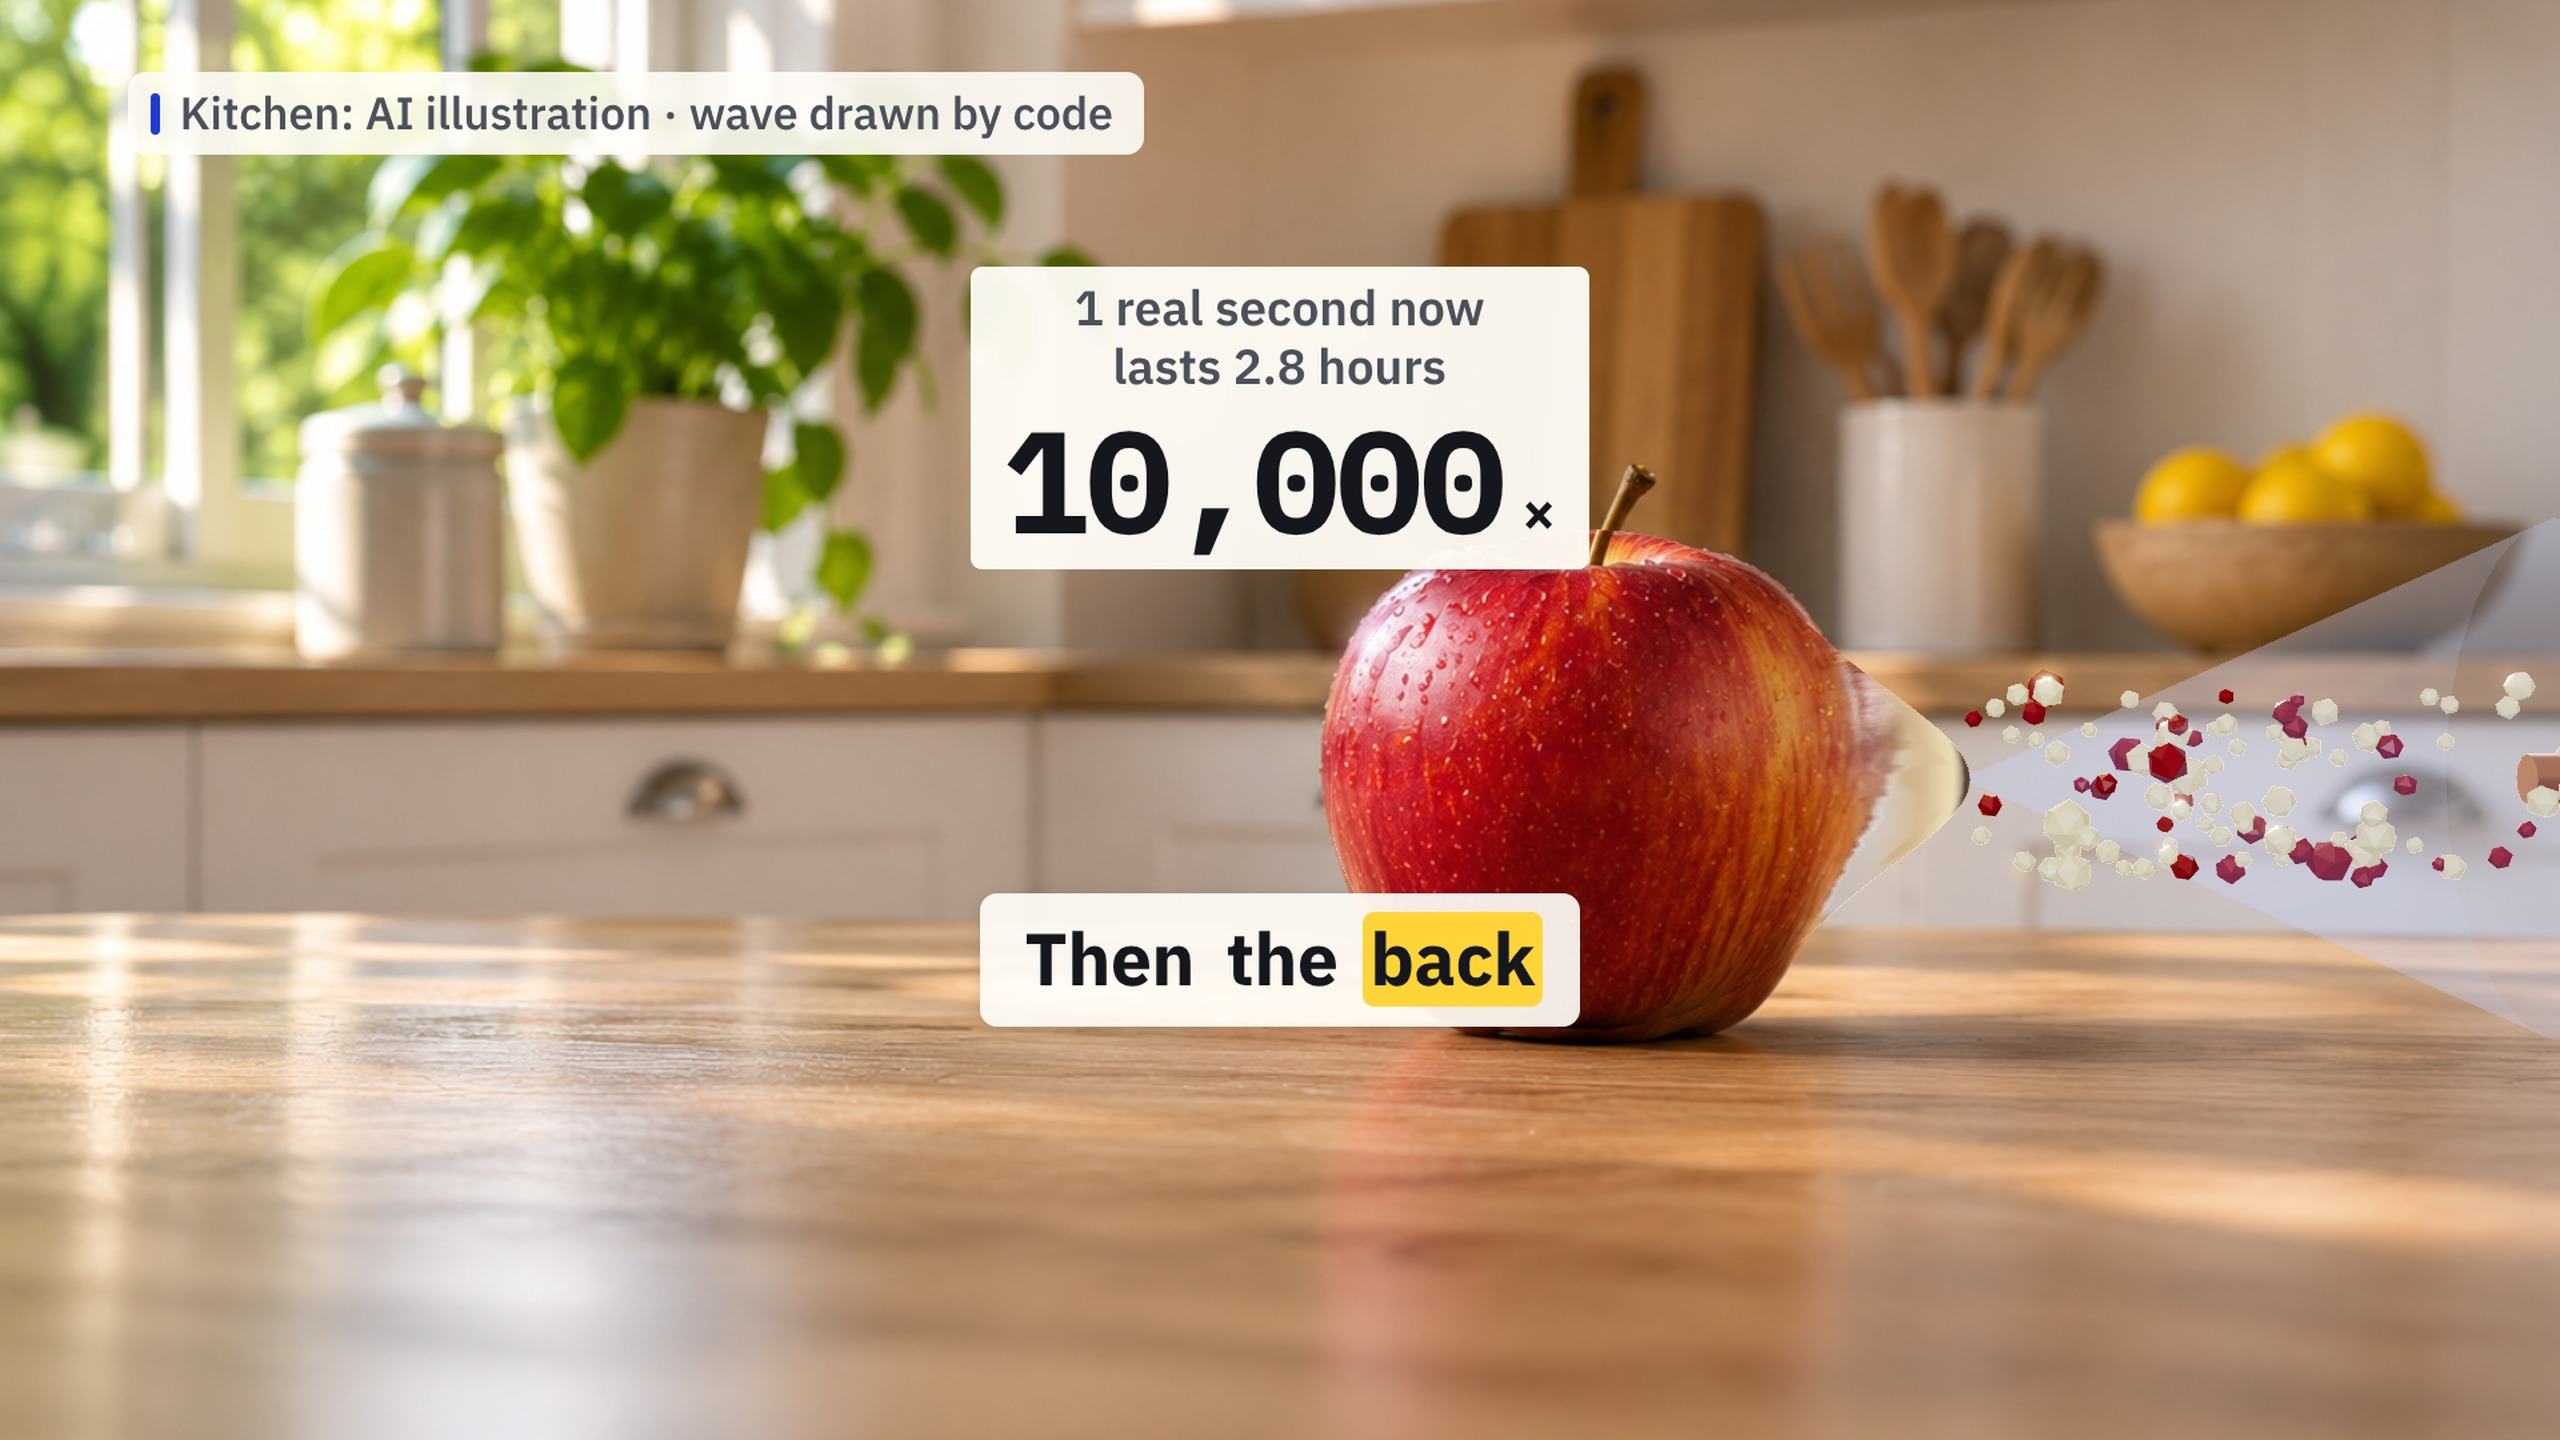
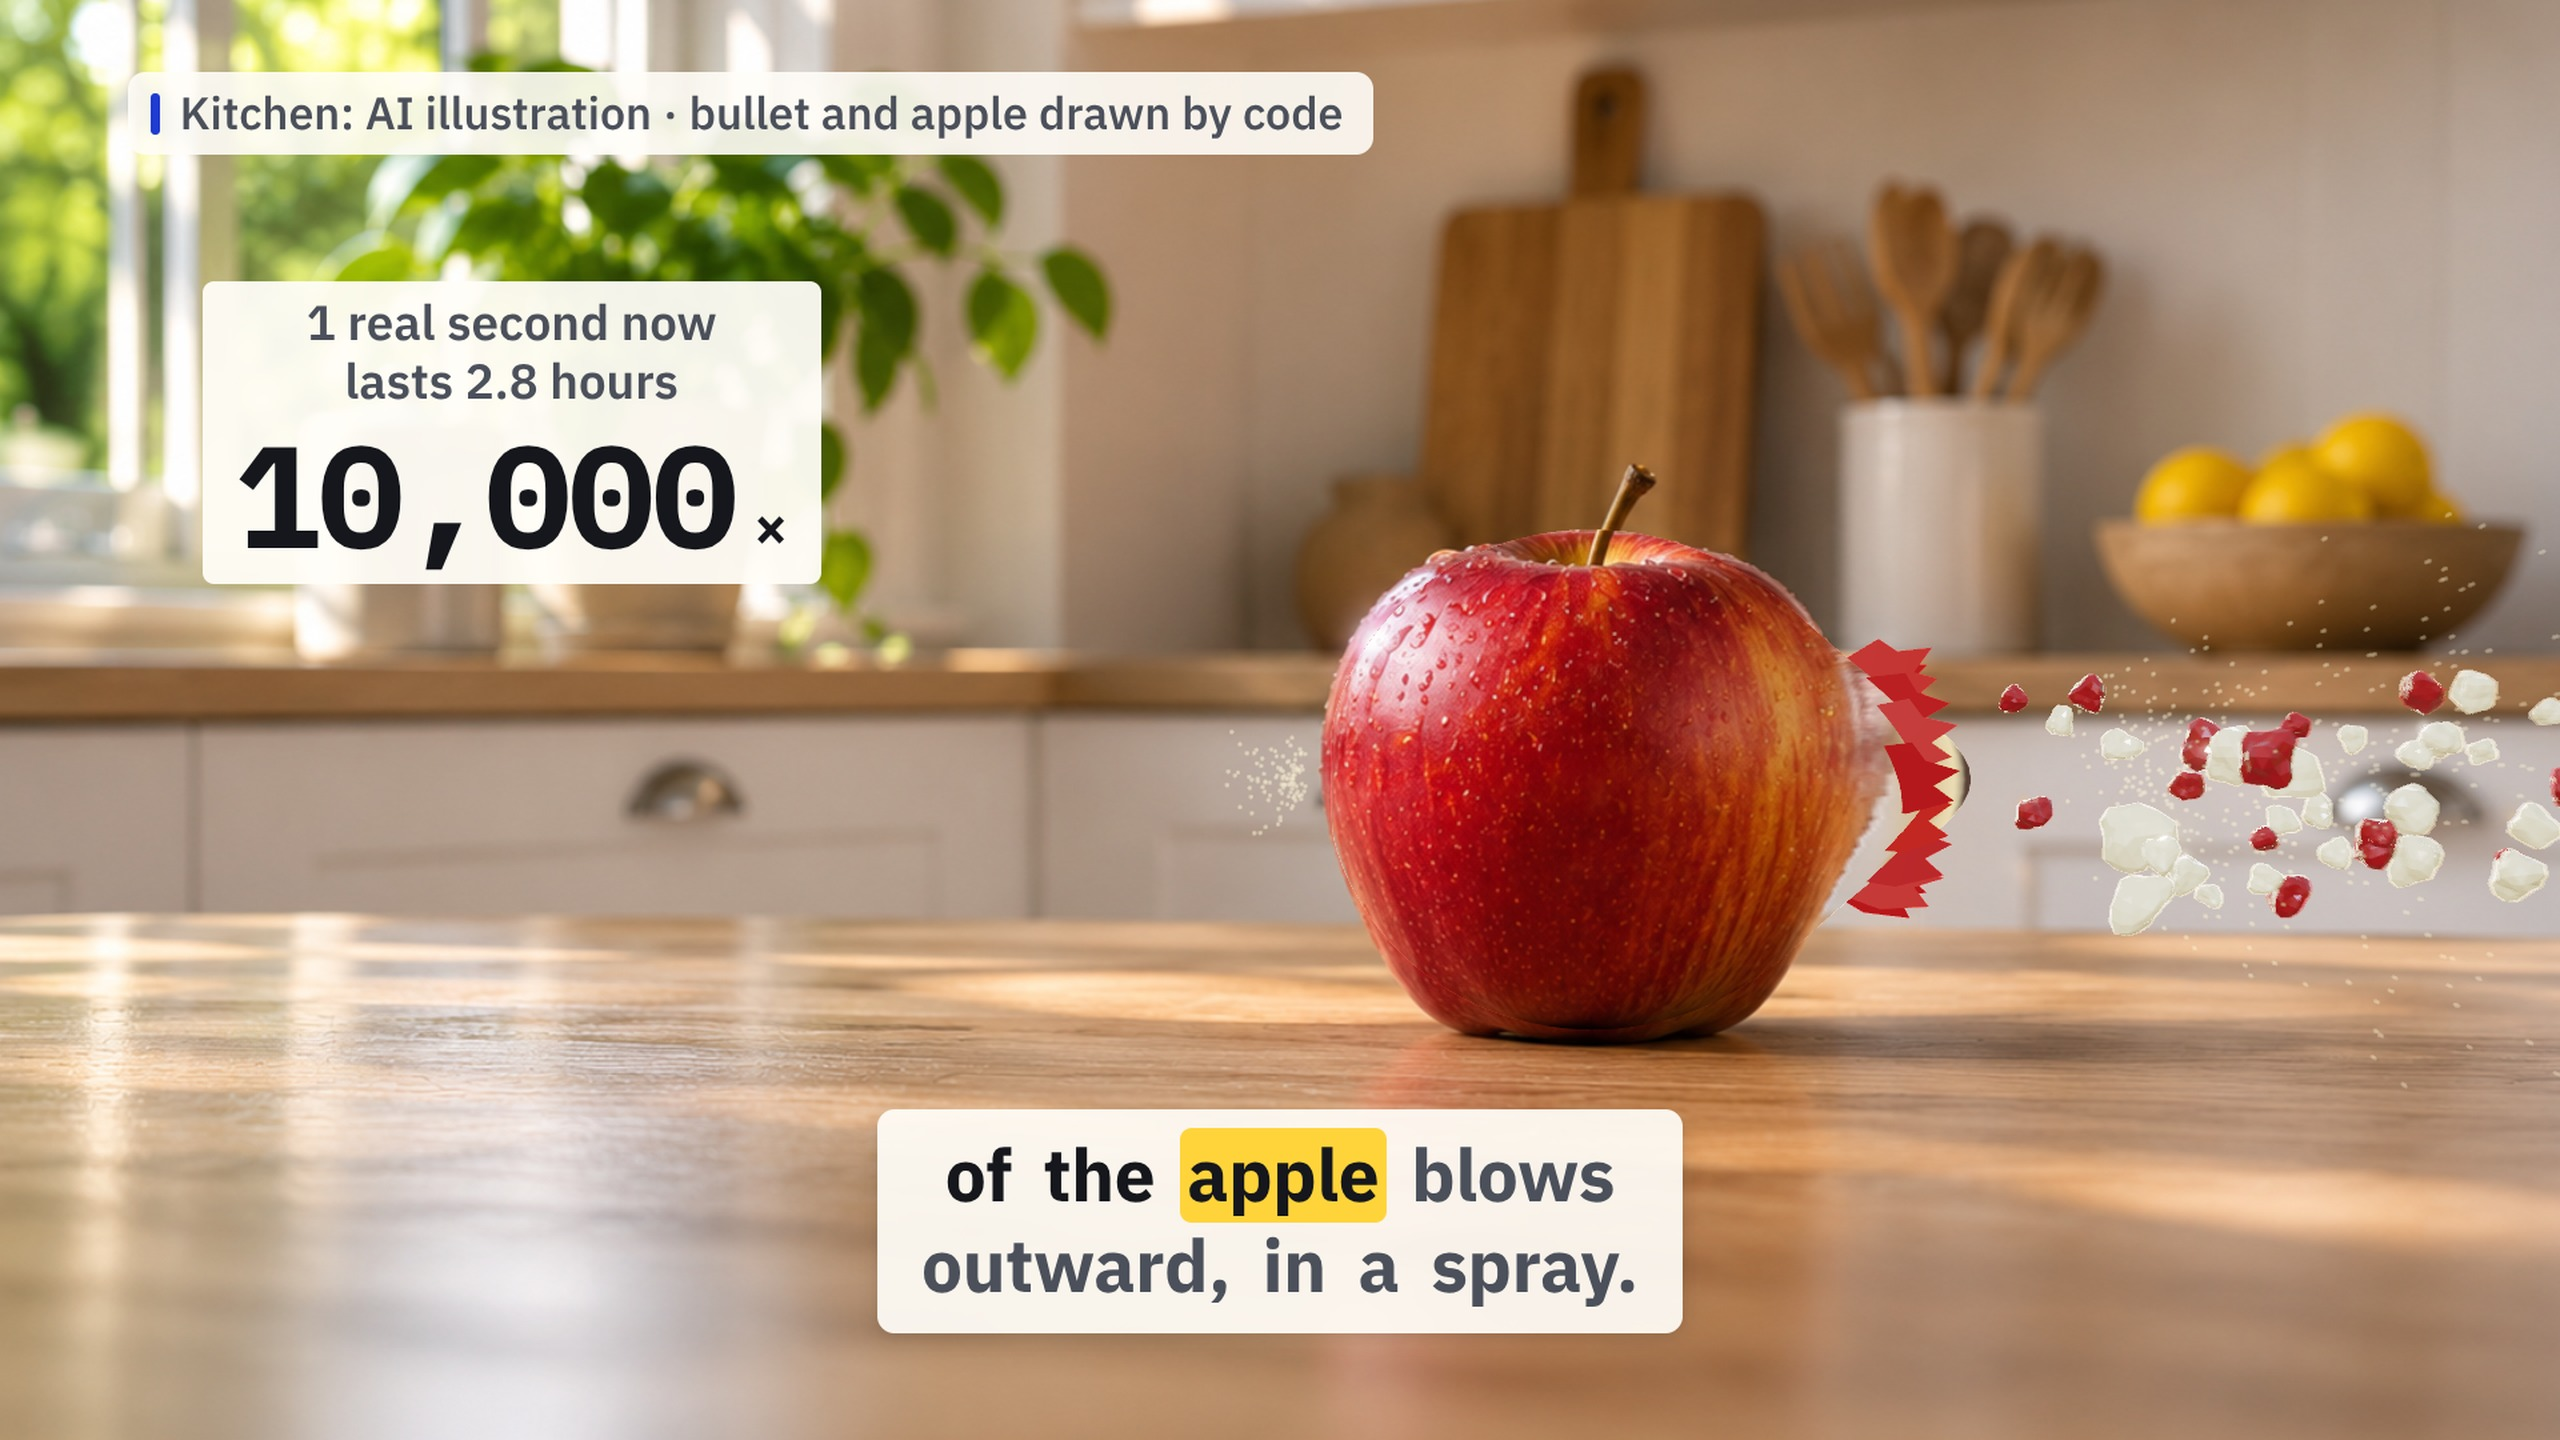
Plate-06 apple v2: no shock cone, red skin petals around the exit with cream flesh, pulp mist, irregular chunks, entry puff, counter and tag fixed
Claude-Session: https://claude.ai/code/session_0192s8Y3nHgGCCsvNARxNLPn

diff --git a/films/channels/physics/lf01/build.py b/films/channels/physics/lf01/build.py
@@ -243,7 +243,7 @@ for (t0, k0), (t1, k1) in zip(KEYS, KEYS[1:]):
         LBL.append([R(t1 + 0.9), f"1 real second now lasts {LABEL_TXT[round(k1, 3)]}"])
 CAM.sort(key=lambda k: k["t"])
 SPINE = [{"t0": 0.45, "t1": R(cut("tease") - 0.3) if PART else R(cut("takeaway") + 12.0), "label": "slow-motion"}]
-SPINE_AT = [[-1e9, {"16x9": [0.74, 0.2], "9x16": [0.5, 0.83]} if PART == 1 else {"16x9": [0.8, 0.3], "9x16": [0.5, 0.29]} if PART == 3 else [0.5, 0.29]]] if PART else [[-1e9, [0.3, 0.19]]]
+SPINE_AT = [[-1e9, {"16x9": [0.74, 0.2], "9x16": [0.5, 0.83]} if PART == 1 else {"16x9": [0.8, 0.3], "9x16": [0.5, 0.29]} if PART == 3 else {"16x9": [0.2, 0.3], "9x16": [0.5, 0.245]} if PART == 5 else [0.5, 0.29]]] if PART else [[-1e9, [0.3, 0.19]]]
 TITLES = ["Watch a wing, slowed ten times", "A fly's wings, then a splash", "A popcorn pop, in slow motion", "Watch sound cross a kitchen", "A bullet, through an apple, slowly",
           "Lightning, a million times slower", "Slow light until it crawls", "Slower than a snail: light"]
 if PART:
@@ -325,7 +325,7 @@ def _retag():
             t0, t1 = max(p["t0"], cur[0]), min(p["t1"], cur[1])
             if t1 <= t0: continue
             if t0 > cur[0] + 0.05: segs.append(dict(b, id="code-s" + str(len(segs)), t0=cur[0], t1=R(t0)))
-            what = {"feeder": "bird", "tapmug": "splash", "sink": "bubble", "applep": "bullet and apple bits"}.get(p["id"], "wave")
+            what = {"feeder": "bird", "tapmug": "splash", "sink": "bubble", "applep": "bullet and apple"}.get(p["id"], "wave")
             segs.append(dict(b, id="code-p" + str(len(segs)), text="Kitchen: AI illustration \u00b7 %s drawn by code" % what, t0=R(t0), t1=R(t1)))
             cur[0] = t1
         if cur[1] > cur[0] + 0.05: segs.append(dict(b, id="code-s" + str(len(segs)), t0=R(cur[0]), t1=b["t1"]))
